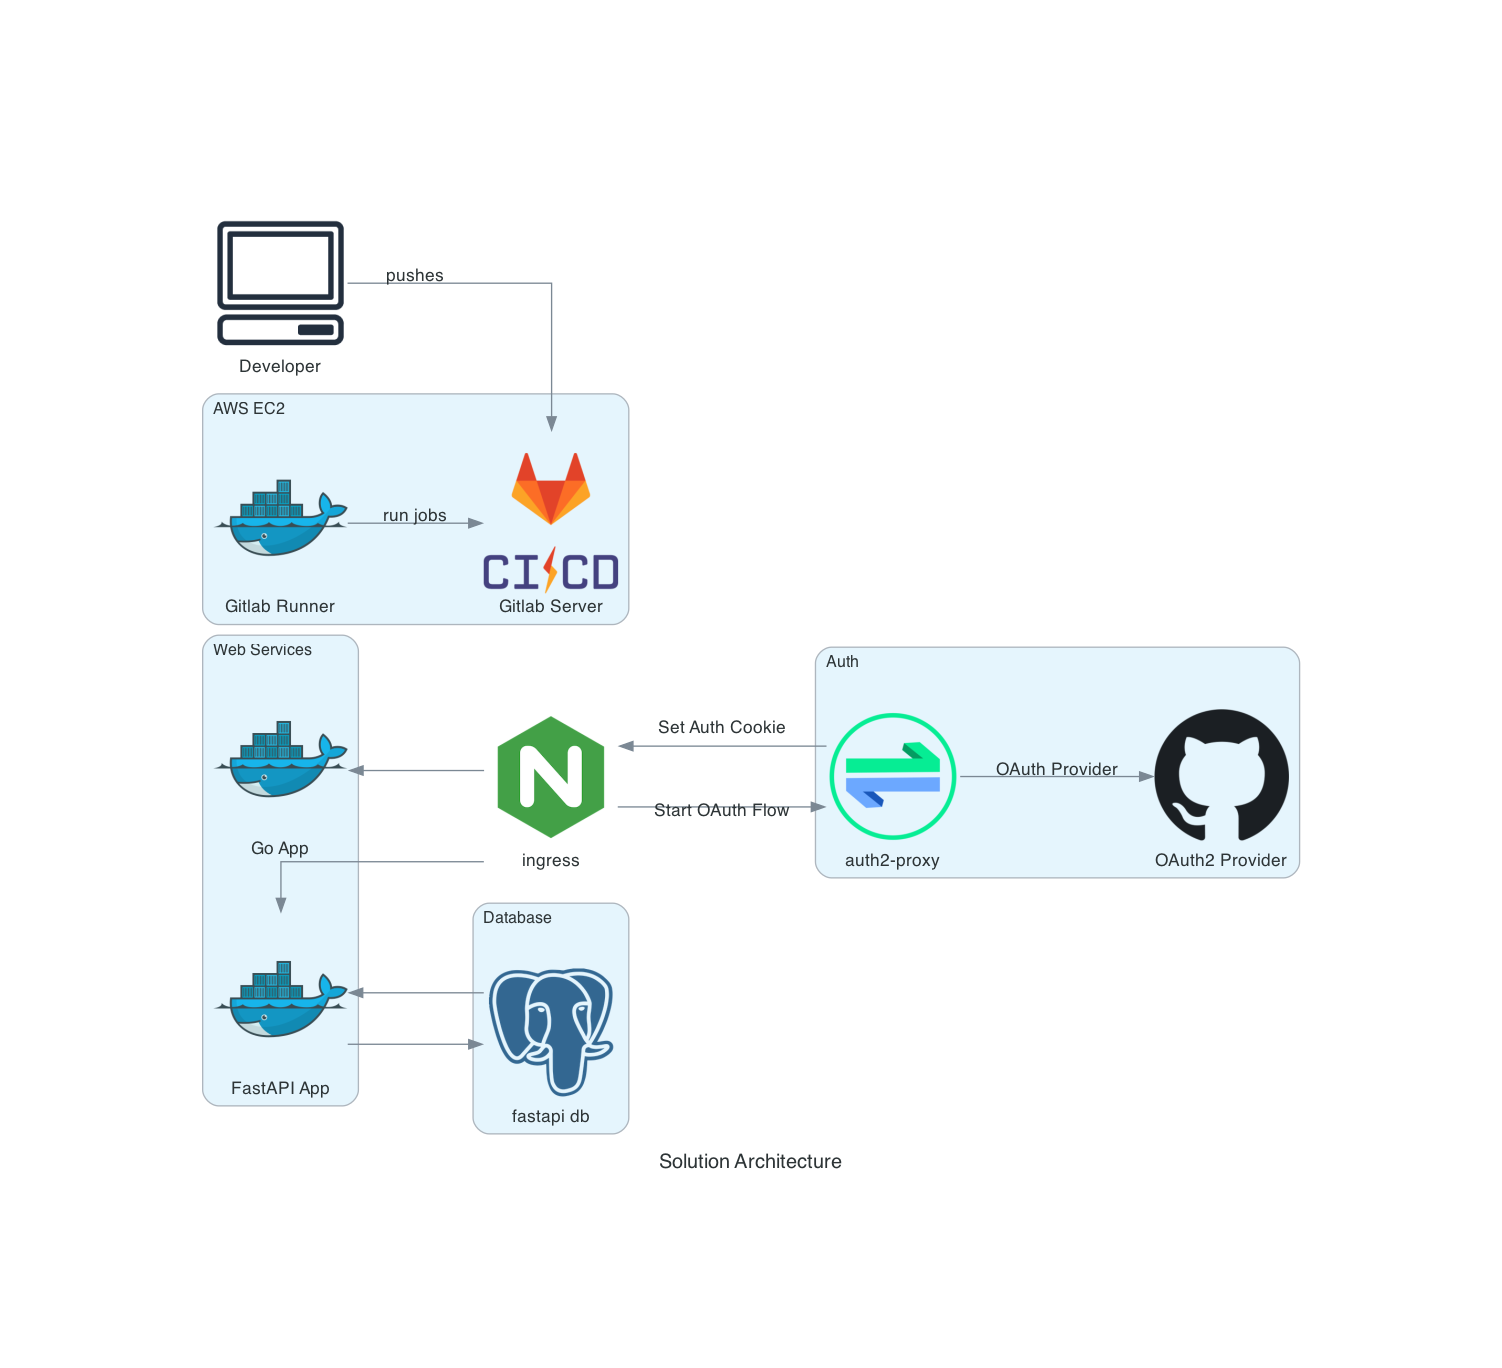
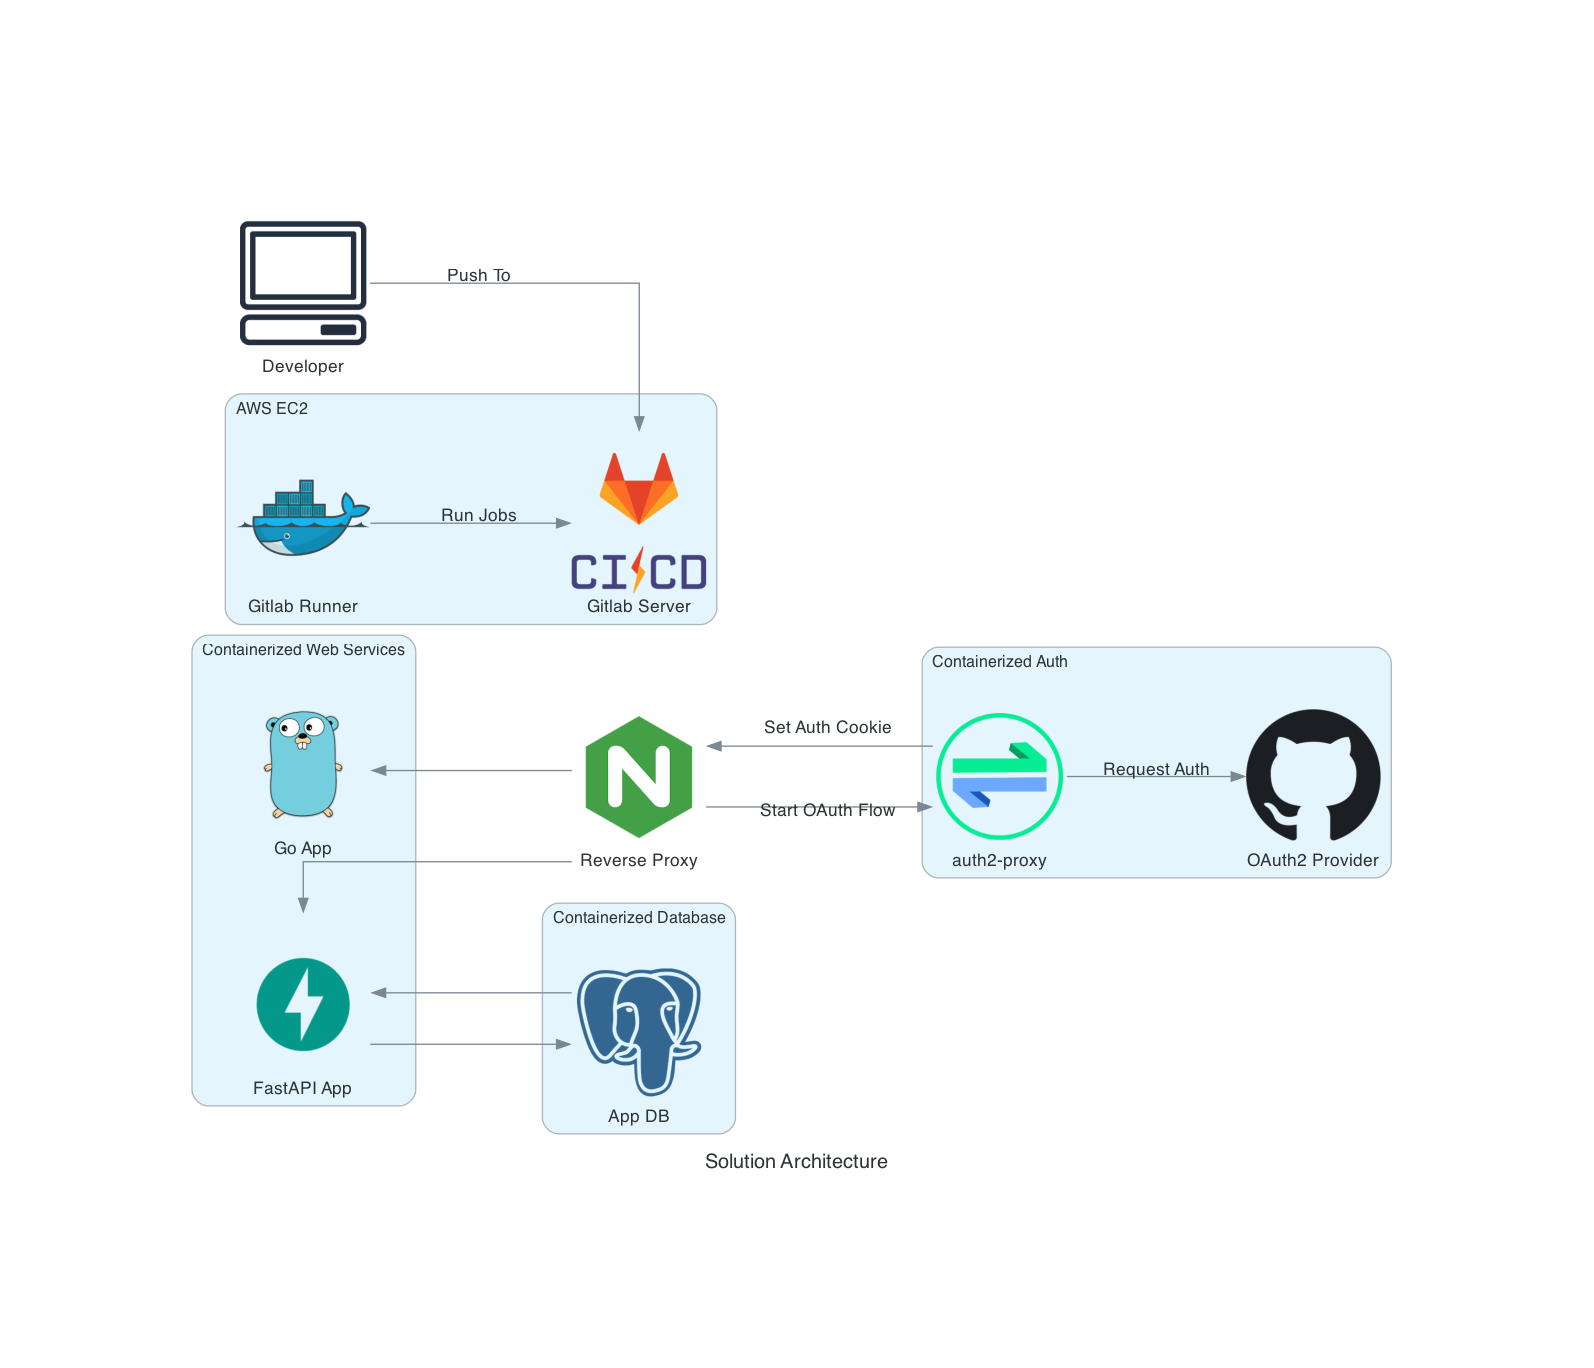
Updated README

diff --git a/docs/architecture/architecture.py b/docs/architecture/architecture.py
@@ -1,26 +1,27 @@
 from diagrams import Cluster, Diagram, Edge
-from diagrams.onprem.analytics import Spark
 from diagrams.onprem.auth import Oauth2Proxy
 from diagrams.onprem.ci import GitlabCI
 from diagrams.onprem.client import Client
-from diagrams.onprem.compute import Server
 from diagrams.onprem.container import Docker
 from diagrams.onprem.database import PostgreSQL
 from diagrams.onprem.vcs import Github
 from diagrams.onprem.network import Nginx
+from diagrams.programming.framework import FastAPI
+from diagrams.programming.language import Go
+
 
 with Diagram(name="Solution Architecture", show=False):
-    ingress = Nginx("ingress")
+    ingress = Nginx("Reverse Proxy")
     devops_admin = Client("Developer")
 
-    with Cluster("Web Services"):
-        fast_api = Docker("FastAPI App")
-        go_service = Docker("Go App")
+    with Cluster("Containerized Web Services"):
+        fast_api = FastAPI("FastAPI App")
+        go_service = Go("Go App")
 
-    with Cluster("Database"):
-        db = PostgreSQL("fastapi db")
+    with Cluster("Containerized Database"):
+        db = PostgreSQL("App DB")
 
-    with Cluster("Auth"):
+    with Cluster("Containerized Auth"):
         auth = Oauth2Proxy("auth2-proxy")
         oauth_provider = Github("OAuth2 Provider")
 
@@ -33,12 +34,12 @@ with Diagram(name="Solution Architecture", show=False):
 
     auth >> Edge(label="Start OAuth Flow") >> ingress
     ingress >> Edge(label="Set Auth Cookie") >> auth
-    auth >> Edge(label="OAuth Provider") >> oauth_provider
+    auth >> Edge(label="Request Auth") >> oauth_provider
 
     fast_api >> db
     db >> fast_api
 
-    ci_runner >> Edge(label="run jobs") >> ci_server
+    ci_runner >> Edge(label="Run Jobs") >> ci_server
 
-    devops_admin >> Edge(label="pushes") >> ci_server
+    devops_admin >> Edge(label="Push To") >> ci_server
 

diff --git a/README.md b/README.md
@@ -26,7 +26,7 @@
 <br />
 <div align="center">
   <a href="https://github.com/miltonarango">
-    <img src="images/brand-logo.svg" alt="Logo" width="80" height="80">
+    <img src="images/brand-logo.svg" alt="Logo" width="160" height="200">
   </a>
 
 <h3 align="center">Test Assignment DevOps Milton</h3>
